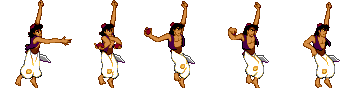
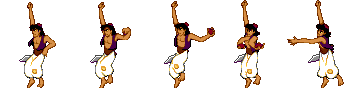
Refactor and adjusting things

diff --git a/Game/Game/PlayerClimbAttackState.cpp b/Game/Game/PlayerClimbAttackState.cpp
@@ -11,11 +11,11 @@ PlayerClimbAttackState::PlayerClimbAttackState(Player* player, Animation* animat
 
 	if (m_player->getIsFacingRight() == false)
 	{
-		m_animation->setFlipHorizontal(true);
+		m_animation->setFlipHorizontal(false);
 	}
 	else
 	{
-		m_animation->setFlipHorizontal(false);
+		m_animation->setFlipHorizontal(true);
 	}
 
 	Sound::getInstance()->play(SoundNames::HIGH_ATTACK_SOUND, false, 1);
@@ -33,18 +33,19 @@ void PlayerClimbAttackState::attachClimbArea(ClimbArea * climbArea)
 
 void PlayerClimbAttackState::Update(float deltaTime)
 {
+	if (KeyboardInput::GetInstance()->isKeyDown(PlayerInputs::MOVE_LEFT)) {
+		m_animation->setFlipHorizontal(false);
+	}
+	if (KeyboardInput::GetInstance()->isKeyDown(PlayerInputs::MOVE_RIGHT)) {
+		m_animation->setFlipHorizontal(true);
+	}
+
 	m_animation->setPositionX(m_player->getPosition().x);
 	m_animation->setPositionY(m_player->getPosition().y);
 	m_animation->Update(deltaTime);
 
 	if (m_animation->getIsFinished() == true)
 	{
-		if (KeyboardInput::GetInstance()->isKeyDown(PlayerInputs::MOVE_LEFT) || 
-			KeyboardInput::GetInstance()->isKeyDown(PlayerInputs::MOVE_RIGHT)) 
-		{
-			m_player->changeState(PlayerStates::Moving);
-			return;
-		}
 		m_player->changeState(PlayerStates::Climb);
 		auto climbState = dynamic_cast<PlayerClimbState*>(m_player->getCurrentState());
 		climbState->attachClimbArea(m_climbingArea);
@@ -99,7 +100,10 @@ void PlayerClimbAttackState::OnCollision(GameObject * entity, float deltaTime)
 	if (entity->getTag() == Tag::BatTag)
 	{
 		auto bat = dynamic_cast<Bat*>(entity);
-		if (Collision::getInstance()->isColliding(m_player->GetBoundingBox(), bat->GetBoundingBox()))
+		auto batBox = bat->GetBoundingBox();
+		batBox.x -= 20;
+		batBox.width += 30;
+		if (Collision::getInstance()->isColliding(m_player->GetBoundingBox(), batBox))
 		{
 			OutputDebugString(L"[INFO] Player is colliding with BAT. \n");
 			if (m_isAttackingHit == false && bat->getCurrentHealth() > 0.0f)

diff --git a/Game/Game/PlayerClimbThrowState.cpp b/Game/Game/PlayerClimbThrowState.cpp
@@ -11,11 +11,11 @@ PlayerClimbThrowState::PlayerClimbThrowState(Player* player, Animation* animatio
 	m_animation->setPositionY(m_player->getPosition().y);
 	if (m_player->getIsFacingRight() == true)
 	{
-		m_animation->setFlipHorizontal(false);
-	}
-	if (m_player->getIsFacingRight() == false)
-	{
 		m_animation->setFlipHorizontal(true);
+	}
+	else
+	{
+		m_animation->setFlipHorizontal(false);
 	}
 }
 
@@ -31,6 +31,13 @@ void PlayerClimbThrowState::attachClimbArea(ClimbArea * area)
 
 void PlayerClimbThrowState::Update(float deltaTime)
 {
+	if (KeyboardInput::GetInstance()->isKeyDown(PlayerInputs::MOVE_LEFT)) {
+		m_animation->setFlipHorizontal(false);
+	}
+	if (KeyboardInput::GetInstance()->isKeyDown(PlayerInputs::MOVE_RIGHT)) {
+		m_animation->setFlipHorizontal(true);
+	}
+
 	m_animation->setPositionX(m_player->getPosition().x);
 	m_animation->setPositionY(m_player->getPosition().y);
 	m_animation->Update(deltaTime);
@@ -44,12 +51,6 @@ void PlayerClimbThrowState::Update(float deltaTime)
 
 	if (m_animation->getIsFinished() == true)
 	{
-		if (KeyboardInput::GetInstance()->isKeyDown(PlayerInputs::MOVE_LEFT) ||
-			KeyboardInput::GetInstance()->isKeyDown(PlayerInputs::MOVE_RIGHT))
-		{
-			m_player->changeState(PlayerStates::Moving);
-			return;
-		}
 		m_player->changeState(PlayerStates::Climb);
 		auto climbState = dynamic_cast<PlayerClimbState*>(m_player->getCurrentState());
 		climbState->attachClimbArea(m_climbArea);
@@ -82,7 +83,7 @@ void PlayerClimbThrowState::createAppleBullet()
 		appleX = m_animation->getPositionX() + 10;
 	else
 		appleX = m_animation->getPositionX() - 10;
-	appleY = m_animation->getPositionY() - 30;
+	appleY = m_animation->getPositionY() - 20;
 	AppleBullet* apple = new AppleBullet(appleX, appleY, 0, 0, m_player->getIsFacingRight());
 	m_player->addAppleToList(apple);
 }

diff --git a/Game/Game/MustacheGuard.cpp b/Game/Game/MustacheGuard.cpp
@@ -96,7 +96,7 @@ Box MustacheGuard::GetBoundingBox()
 {
 	Box box;
 
-	box.x = x - width / 2 - 20;
+	box.x = x - width / 2;
 	box.y = y - height / 2;
 	box.width = width;
 	box.height = height;
@@ -281,16 +281,19 @@ void MustacheGuard::OnCollision(std::map<int, GameObject*>* colliableObjects, fl
 
 void MustacheGuard::OnCollision(GameObject * colliableObject, float deltaTime)
 {
-	if (colliableObject->getTag() == PlayerTag) {
-		auto player = dynamic_cast<Player*>(colliableObject);
-		if (Collision::getInstance()->isColliding(this->GetBoundingBox(), player->GetBoundingBox()))
-		{
-			if (m_isAttackingHit == false && player->getCurrentHealth() > 0.0f)
+	if (m_currentHealth > 0 && !isDead)
+	{
+		if (colliableObject->getTag() == PlayerTag) {
+			auto player = dynamic_cast<Player*>(colliableObject);
+			if (Collision::getInstance()->isColliding(this->GetBoundingBox(), player->GetBoundingBox()))
 			{
-				OutputDebugString(L"[INFO] MustacheGuard attacks Player.\n");
-				player->takeDamage(1);
-				player->isHit();
-				m_isAttackingHit = true;
+				if (m_isAttackingHit == false && player->getCurrentHealth() > 0.0f)
+				{
+					OutputDebugString(L"[INFO] MustacheGuard attacks Player.\n");
+					player->takeDamage(1);
+					player->isHit();
+					m_isAttackingHit = true;
+				}
 			}
 		}
 	}

diff --git a/Game/Game/Bat.cpp b/Game/Game/Bat.cpp
@@ -181,16 +181,19 @@ void Bat::OnCollision(std::map<int, GameObject*>* colliableObjects, float deltaT
 
 void Bat::OnCollision(GameObject * colliableObject, float deltaTime)
 {
-	if (colliableObject->getTag() == PlayerTag) {
-		auto player = dynamic_cast<Player*>(colliableObject);
-		if (Collision::getInstance()->isColliding(this->GetBoundingBox(), player->GetBoundingBox()))
-		{
-			if (m_isAttackingHit == false && player->getCurrentHealth() > 0.0f)
+	if (m_currentHealth > 0 && !isDead)
+	{
+		if (colliableObject->getTag() == PlayerTag) {
+			auto player = dynamic_cast<Player*>(colliableObject);
+			if (Collision::getInstance()->isColliding(this->GetBoundingBox(), player->GetBoundingBox()))
 			{
-				OutputDebugString(L"[INFO] Bat attacks Player.\n");
-				player->takeDamage(1);
-				player->isHit();
-				m_isAttackingHit = true;
+				if (m_isAttackingHit == false && player->getCurrentHealth() > 0.0f)
+				{
+					OutputDebugString(L"[INFO] Bat attacks Player.\n");
+					player->takeDamage(1);
+					player->isHit();
+					m_isAttackingHit = true;
+				}
 			}
 		}
 	}

diff --git a/Game/Game/Skeleton.cpp b/Game/Game/Skeleton.cpp
@@ -1,7 +1,7 @@
 #include "stdafx.h"
 #include "Skeleton.h"
 
-#define ATTACK_RANGE 120
+#define ATTACK_RANGE 180
 
 
 Skeleton::Skeleton(float x, float y, float width, float height, bool isFacingRight) : 
@@ -17,7 +17,7 @@ Skeleton::Skeleton(float x, float y, float width, float height, bool isFacingRig
 	//image = new Animation;
 	m_imageCrawl = new Animation(L"Resources/Enmity/PNG/skeleton_108_111_1.png", 1, 1, 1, false, 10.f);
 	m_imageBurst = new Animation(L"Resources/Enmity/PNG/burst-bat_88_56_8.png", 8, 1, 8, false, 60.f);
-	m_imageTransform = new Animation(L"Resources/Enmity/PNG/skeleton-star_108_111_20.png", 20, 1, 20, false, 220.f);
+	m_imageTransform = new Animation(L"Resources/Enmity/PNG/skeleton-star_108_111_20.png", 20, 1, 20, false, 100.f);
 
 	m_image = m_imageCrawl;
 	m_image->setFlipHorizontal(m_isFacingRight);

diff --git a/Game/Game/PlayerStandAttackState.cpp b/Game/Game/PlayerStandAttackState.cpp
@@ -100,7 +100,10 @@ void PlayerStandAttackState::OnCollision(GameObject* entity, float deltaTime)
 	if (entity->getTag() == Tag::BatTag)
 	{
 		auto bat = dynamic_cast<Bat*>(entity);
-		if (Collision::getInstance()->isColliding(m_player->GetBoundingBox(), bat->GetBoundingBox()))
+		auto batBox = bat->GetBoundingBox();
+		batBox.x -= 20;
+		batBox.width += 30;
+		if (Collision::getInstance()->isColliding(m_player->GetBoundingBox(), batBox))
 		{
 			OutputDebugString(L"[INFO] Player is colliding with BAT. \n");
 			if (isAttackingHit == false && bat->getCurrentHealth() > 0.0f)

diff --git a/Game/Game/PlayerMoveAttackState.cpp b/Game/Game/PlayerMoveAttackState.cpp
@@ -99,7 +99,10 @@ void PlayerMoveAttackState::OnCollision(GameObject * entity, float deltaTime)
 	if (entity->getTag() == Tag::BatTag)
 	{
 		auto bat = dynamic_cast<Bat*>(entity);
-		if (Collision::getInstance()->isColliding(m_player->GetBoundingBox(), bat->GetBoundingBox()))
+		auto batBox = bat->GetBoundingBox();
+		batBox.x -= 20;
+		batBox.width += 30;
+		if (Collision::getInstance()->isColliding(m_player->GetBoundingBox(), batBox))
 		{
 			OutputDebugString(L"[INFO] Player is colliding with BAT. \n");
 			if (isAttackingHit == false && bat->getCurrentHealth() > 0.0f)

diff --git a/Game/Game/Sound.cpp b/Game/Game/Sound.cpp
@@ -93,8 +93,11 @@ void Sound::loadResources()
 
 	this->loadSound((char*)"Resources/sound/throw-apple.wav", SoundNames::THROW_APPLE_SOUND);
 	this->loadSound((char*)"Resources/sound/Outta_Apples.wav", SoundNames::OUTTA_APPLE_SOUND);
+	this->loadSound((char*)"Resources/sound/apple-collect.wav", SoundNames::APPLE_COLLECT_SOUND);
 
 	this->loadSound((char*)"Resources/sound/Boxing Bell.wav", SoundNames::RESTART_LIFE_SOUND);
+
+	this->loadSound((char*)"Resources/sound/extra-health.wav", SoundNames::EXTRA_HEALTH_SOUND);
 }
 
 float Sound::getVolume()

diff --git a/Game/Game/BossScene.cpp b/Game/Game/BossScene.cpp
@@ -117,6 +117,11 @@ void BossScene::Update(float deltaTime)
 			it->second->Update(deltaTime);
 			if (it->second->getTag() == Tag::BossTag)
 			{
+				if (dynamic_cast<Boss*>(it->second)->m_health->getCurrentHealth() <= 0)
+				{
+					SceneManager::getInstance()->changeScene(new LevelCompleteScene(new MainMenuScene()));
+					return;
+				}
 				it->second->OnCollision(m_player, deltaTime);
 			}
 		}

diff --git a/Game/Game/AppleItem.cpp b/Game/Game/AppleItem.cpp
@@ -30,7 +30,9 @@ void AppleItem::ActiveAction() {
 	case Active:
 	{
 		if (image->getIsFinished())
+		{
 			isDead = true;
+		}
 		break;
 	}
 	default:
@@ -44,6 +46,7 @@ void AppleItem::ActiveAction() {
 		isDied = true;
 		isUsed= true;
 		m_player->m_appleCount += 1;
+		Sound::getInstance()->play(SoundNames::APPLE_COLLECT_SOUND, false);
 		break;
 	}
 	}

diff --git a/Game/Game/Star.cpp b/Game/Game/Star.cpp
@@ -15,7 +15,7 @@ Star::Star(float x, float y, float width, float height, Boss* boss) : BulletBoss
 	m_image = m_imageFling;
 	m_isFacingRight = m_boss->getIsFacingRight();
 	m_image->setFlipHorizontal(false);
-	if (!m_isFacingRight)
+	if (m_isFacingRight)
 		this->x = x + 30;
 	else
 		this->x = x - 30;

diff --git a/Game/Game/BlueHeartItem.cpp b/Game/Game/BlueHeartItem.cpp
@@ -53,6 +53,7 @@ void BlueHeartItem::ActiveAction() {
 		isUsed = true;
 		m_player->recover(2);
 		m_player->m_score += 150;
+		Sound::getInstance()->play(SoundNames::EXTRA_HEALTH_SOUND, false);
 		status = Active;
 		break;
 	}
